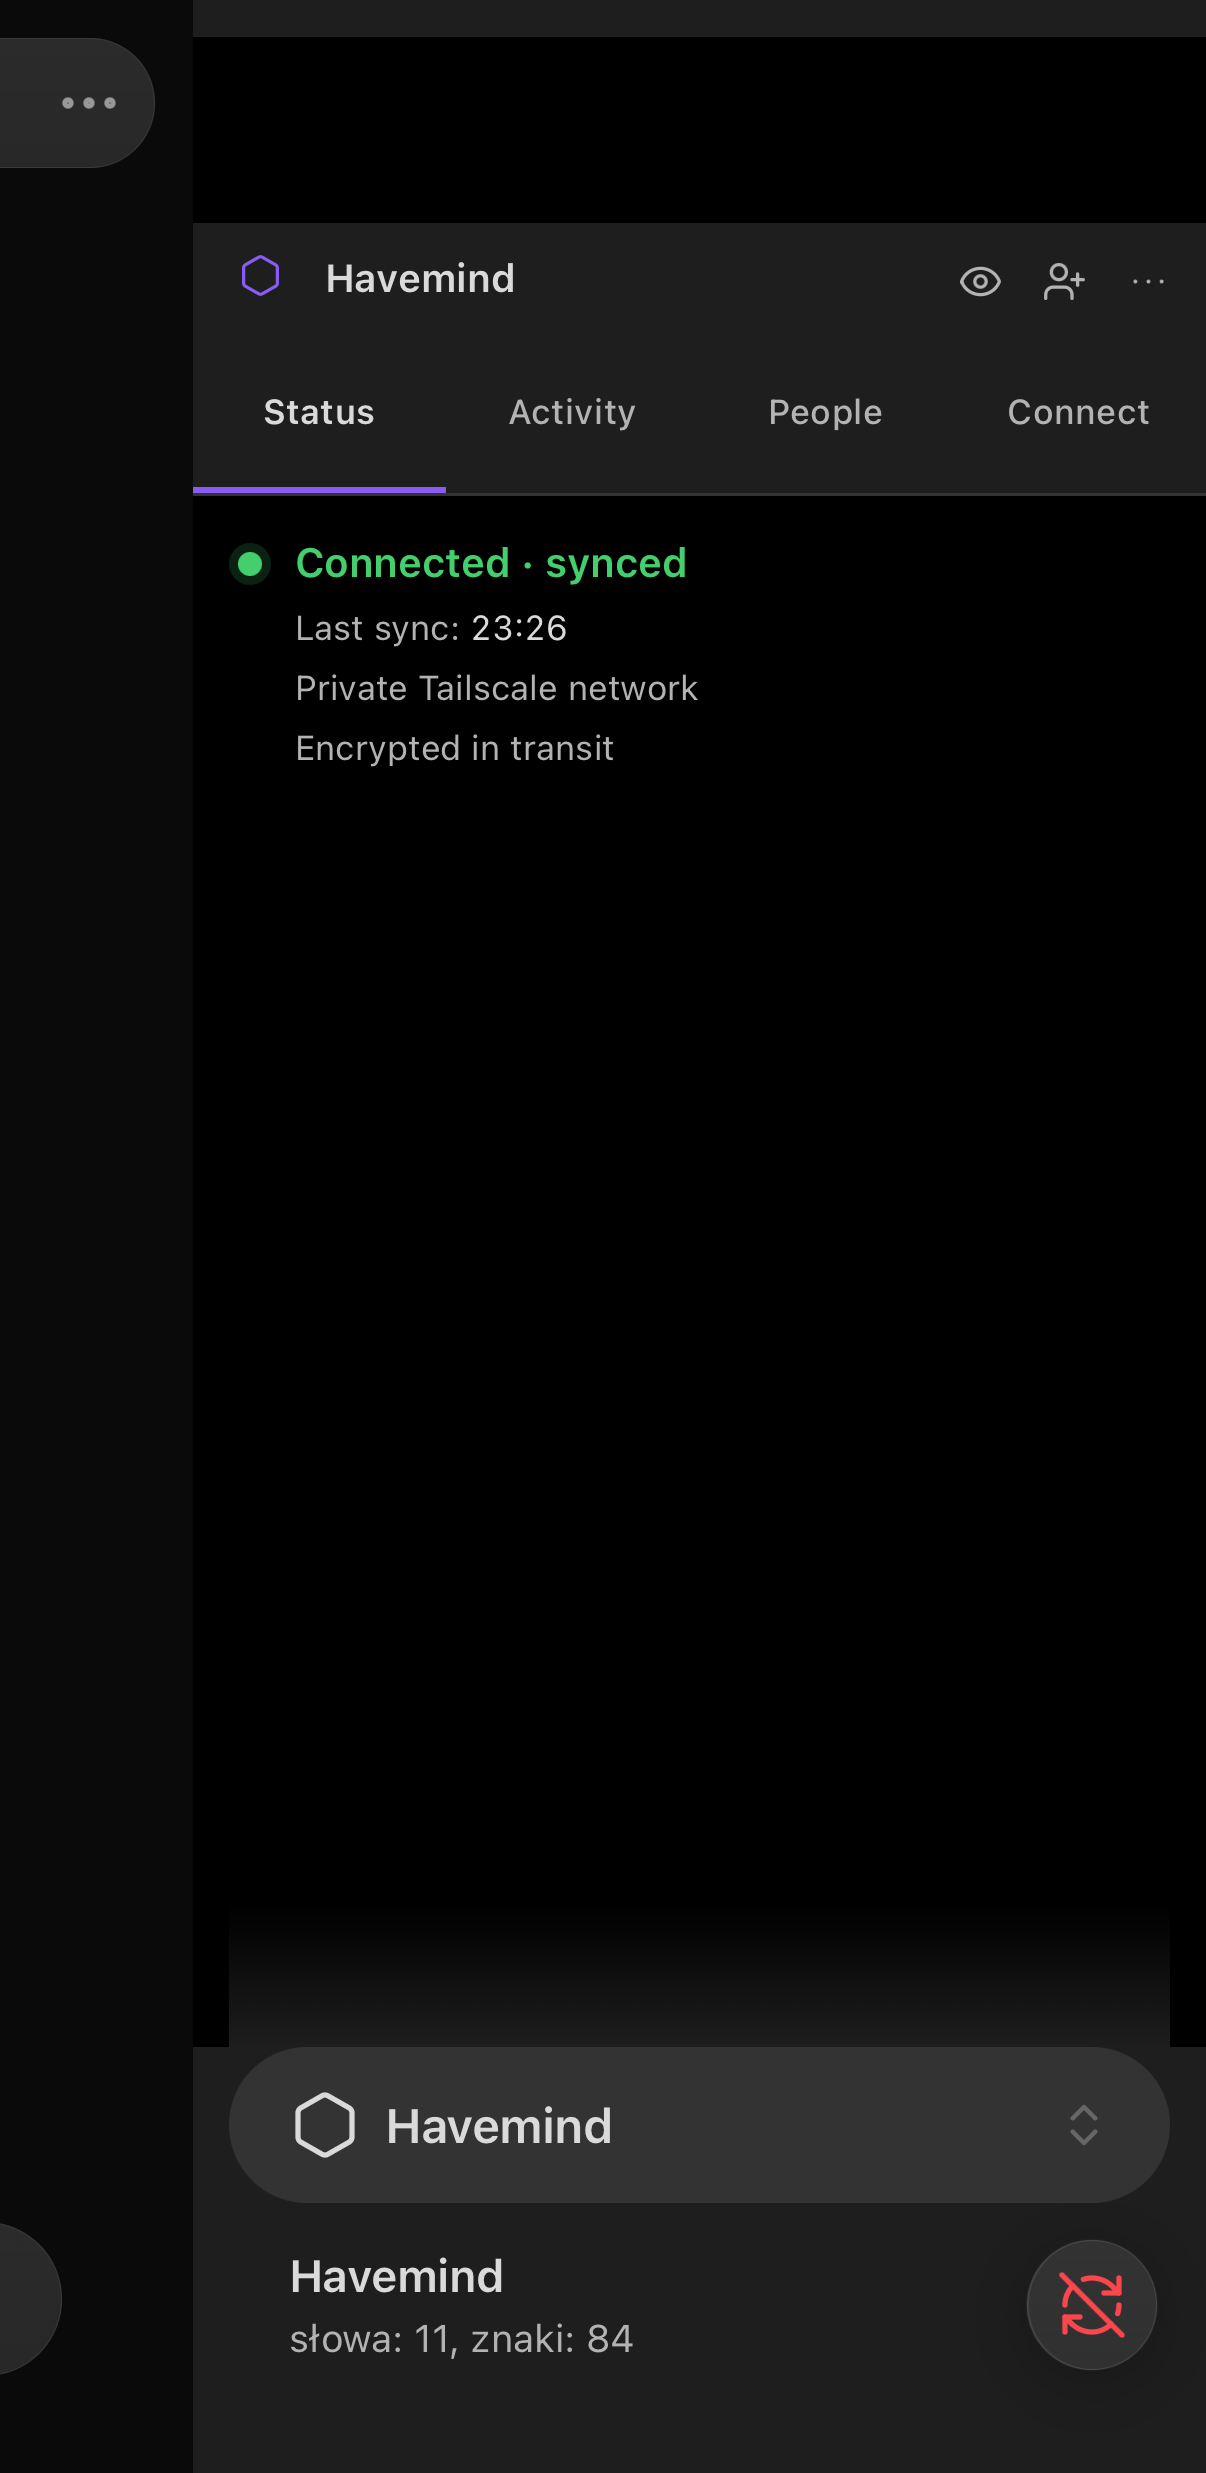
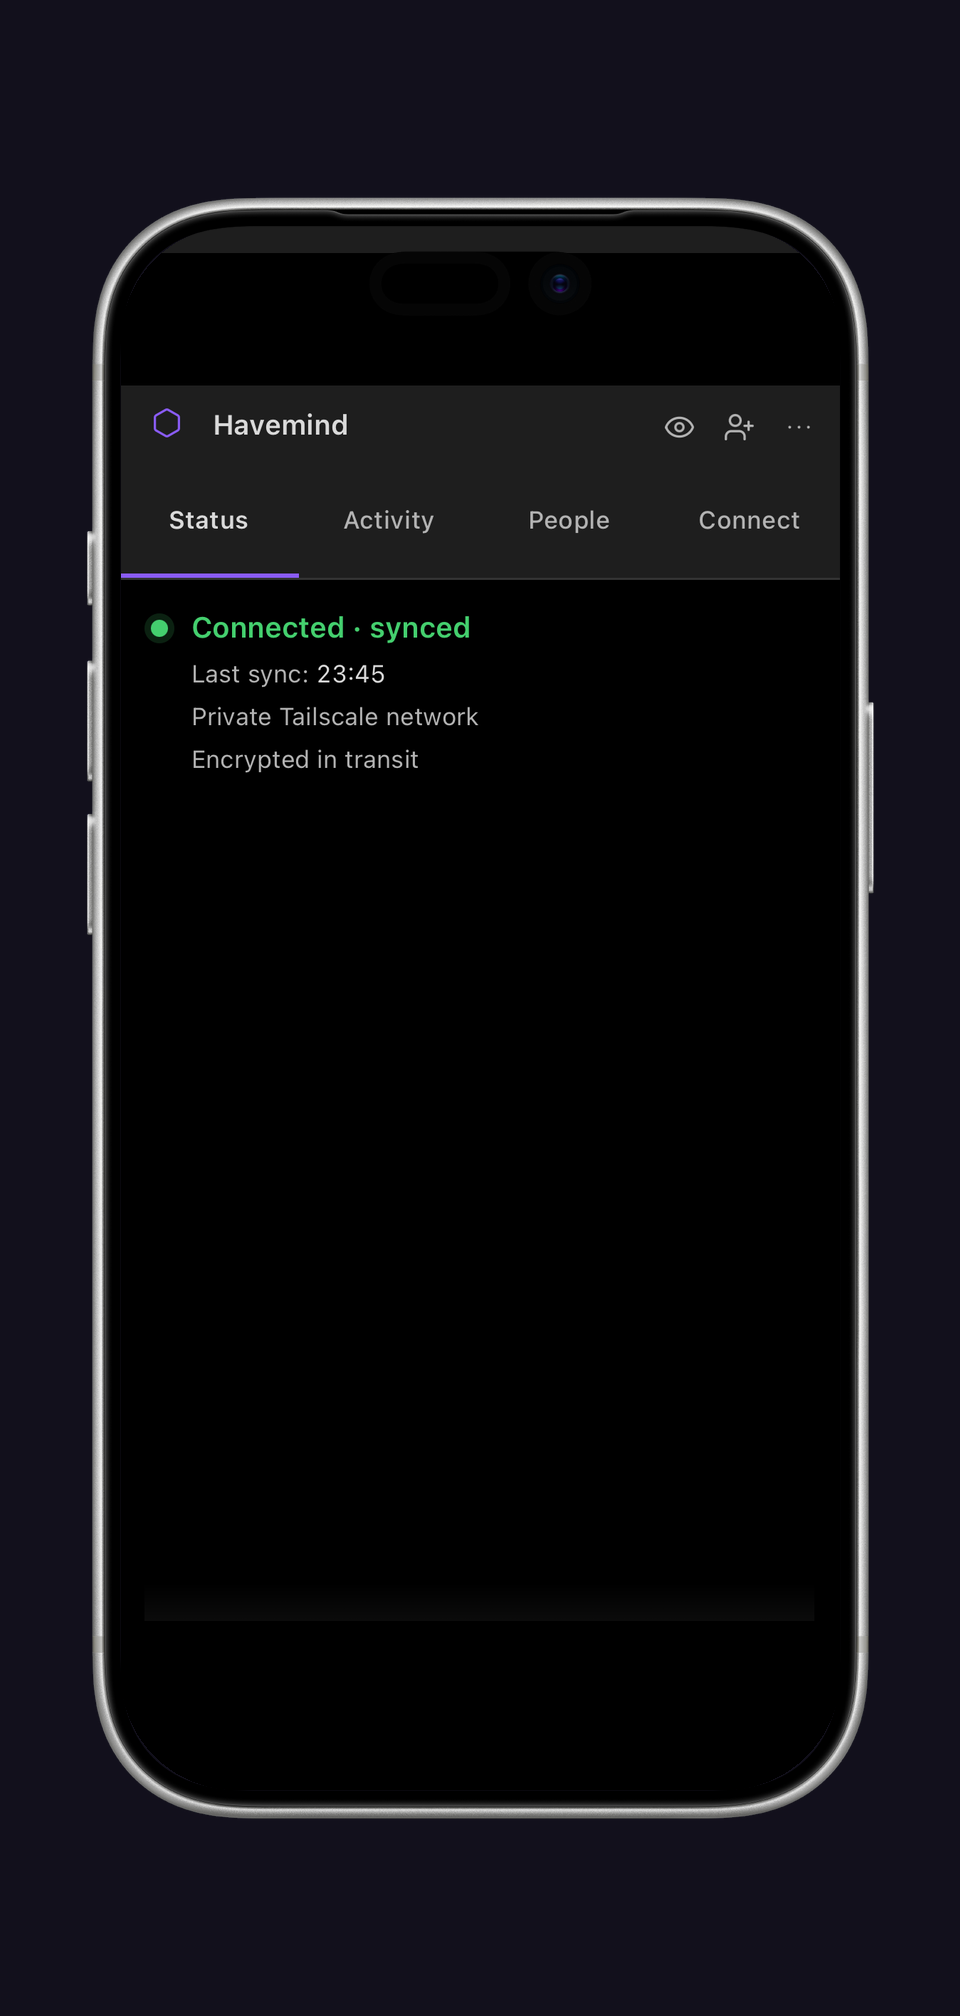
docs: show the screenshots inside real device frames
A bare window capture on a dark page reads as a crop of something, not as a
product. Each capture now sits in Apple's own bezel: the desktop panes in a
MacBook Pro, the mobile pane in an iPhone 17 Pro.

Three things the compositing had to get right:

- The iOS status strip carried a red recording indicator. It is cropped, not
  painted over: a painted bar renders as a lighter block against Obsidian's
  true black.
- The phone captures included a sliver of the pane behind and Obsidian's
  bottom bar. Both are trimmed, with the pane's left edge measured rather than
  detected, since backdrop and pane are both near-black at the top of a frame.
- Captures are fitted to the cutout by width. Cover-and-crop zoomed in and cut
  the Restore actions and the pane's right edge out of frame.

The bezels themselves are not committed here: Apple licenses them for making
mock-ups of software that runs on Apple systems, not for redistribution. These
are renders, which that licence covers.

Claude-Session: https://claude.ai/code/session_01GXw3u59xiPPDddRq2zGEJt

diff --git a/README.md b/README.md
@@ -100,21 +100,21 @@ Enable.
 
 Whether you are connected, when the last sync landed, and over what network.
 
-<img src="https://raw.githubusercontent.com/MikolajSapek/obsidian-havemind/main/assets/pane-status.png" alt="The Havemind pane on the Status tab, showing Connected and synced, the time of the last sync, and that the connection runs over a private Tailscale network" width="100%">
+<img src="https://raw.githubusercontent.com/MikolajSapek/obsidian-havemind/main/assets/pane-status.png" alt="Havemind on a MacBook: the Status tab shows Connected and synced, the time of the last sync, and that the connection runs over a private Tailscale network" width="100%">
 
 ### People
 
 Everyone in the vault, their role, and whether they are connected right now.
 Invite someone from the same place.
 
-<img src="https://raw.githubusercontent.com/MikolajSapek/obsidian-havemind/main/assets/pane-people.png" alt="The Havemind pane on the People tab, listing the vault owner and two connected editors with an Invite someone action" width="100%">
+<img src="https://raw.githubusercontent.com/MikolajSapek/obsidian-havemind/main/assets/pane-people.png" alt="Havemind on a MacBook: the People tab lists the vault owner and two connected editors, with an Invite someone action" width="100%">
 
 ### On a phone
 
 The same pane, full screen, with touch targets and safe areas sized for it.
 
 <p align="center">
-  <img src="https://raw.githubusercontent.com/MikolajSapek/obsidian-havemind/main/assets/pane-mobile.png" alt="Havemind running full screen on an iPhone, showing Connected and synced" width="320">
+  <img src="https://raw.githubusercontent.com/MikolajSapek/obsidian-havemind/main/assets/pane-mobile.png" alt="Havemind running full screen on an iPhone, showing Connected and synced" width="380">
 </p>
 
 ## Commands
